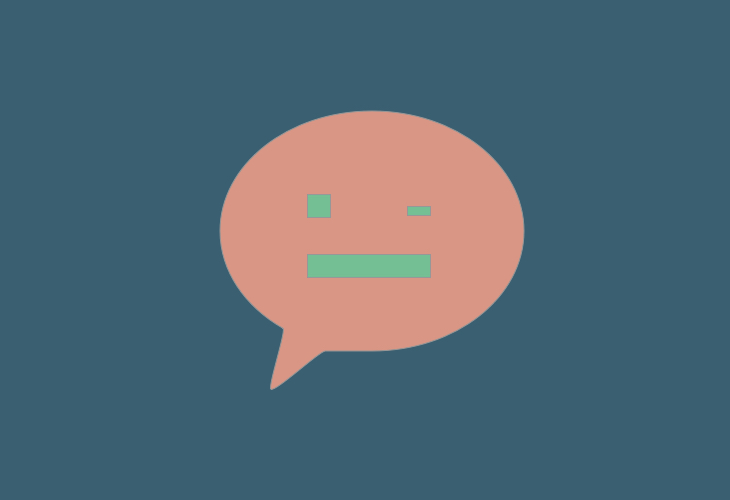
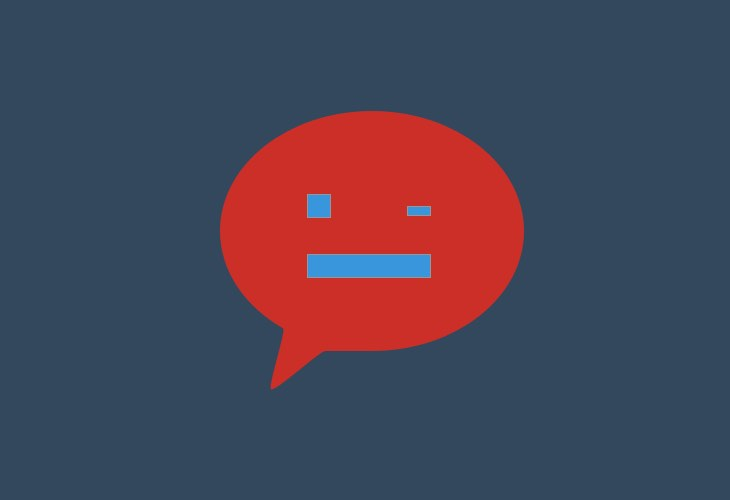
switch color palette

Changed region(s): [[0.2712, 0.18, 0.7233, 0.81]]

diff --git a/components/ShowRoomPage/images/jsxIfyedGlassesSVG.js b/components/ShowRoomPage/images/jsxIfyedGlassesSVG.js
@@ -8,13 +8,13 @@ const glassesSvg = () => <svg height="189px" width="259px" version="1.1" viewBox
   <defs/>
   <g id="showRoomGlassesSVG" fill="none" stroke="none" strokeWidth="1">
     <g id="glasses" transform="translate(5.000000, 6.000000)">
-      <path id="Path-1" d="M79.2539062,20.078125 C79.2539062,20.078125 70.4441533,4.82838836 67.8398438,0.3203125 L67.8398438,0.3203125 L51.0742188,7.8359375 L42.3046875,22.6992187 L0.57421875,112.113281" stroke="#3D7F59" strokeDasharray="1" strokeLinecap="round" strokeWidth="11"/>
-      <circle id="Oval-1" cx="54.5" cy="128.5" r="48.5" stroke="#3D7F59" strokeWidth="11"/>
-      <path id="Rectangle-1" d="M32.716366,106.526212 C43.4021314,106.526212 54.0878967,117.354337 54.0878967,117.354337 L11.3448353,117.354337 C11.3448353,117.354337 22.0306007,106.526212 32.716366,106.526212 Z" fill="#44535A" transform="translate(32.716366, 111.940275) rotate(-45.000000) translate(-32.716366, -111.940275) "/>
-      <path id="Path-1" d="M248.253906,20.078125 C248.253906,20.078125 239.444153,4.82838836 236.839844,0.3203125 L236.839844,0.3203125 L220.074219,7.8359375 L211.304688,22.6992187 L169.574219,112.113281" stroke="#3D7F59" strokeDasharray="1" strokeLinecap="round" strokeWidth="11" transform="translate(208.914062, 56.216797) scale(-1, 1) translate(-208.914062, -56.216797) "/>
-      <circle id="Oval-1" cx="194.5" cy="128.5" r="48.5" stroke="#3D7F59" strokeWidth="11"/>
-      <path id="Rectangle-1" d="M213.716366,106.526212 C224.402131,106.526212 235.087897,117.354337 235.087897,117.354337 L192.344835,117.354337 C192.344835,117.354337 203.030601,106.526212 213.716366,106.526212 Z" fill="#44535A" transform="translate(213.716366, 111.940275) scale(-1, 1) rotate(-45.000000) translate(-213.716366, -111.940275) "/>
-      <path id="Line" d="M101,143 C101,143 109.311148,123 125.8593,123 C142.407452,123 148,143 148,143" stroke="#3D7F59" strokeLinecap="round" strokeWidth="12"/>
+      <path id="Path-1" d="M79.2539062,20.078125 C79.2539062,20.078125 70.4441533,4.82838836 67.8398438,0.3203125 L67.8398438,0.3203125 L51.0742188,7.8359375 L42.3046875,22.6992187 L0.57421875,112.113281" stroke="#3996DD" strokeDasharray="1" strokeLinecap="round" strokeWidth="11"/>
+      <circle id="Oval-1" cx="54.5" cy="128.5" r="48.5" stroke="#3996DD" strokeWidth="11"/>
+      <path id="Rectangle-1" d="M32.716366,106.526212 C43.4021314,106.526212 54.0878967,117.354337 54.0878967,117.354337 L11.3448353,117.354337 C11.3448353,117.354337 22.0306007,106.526212 32.716366,106.526212 Z" fill="#33485C" transform="translate(32.716366, 111.940275) rotate(-45.000000) translate(-32.716366, -111.940275) "/>
+      <path id="Path-1" d="M248.253906,20.078125 C248.253906,20.078125 239.444153,4.82838836 236.839844,0.3203125 L236.839844,0.3203125 L220.074219,7.8359375 L211.304688,22.6992187 L169.574219,112.113281" stroke="#3996DD" strokeDasharray="1" strokeLinecap="round" strokeWidth="11" transform="translate(208.914062, 56.216797) scale(-1, 1) translate(-208.914062, -56.216797) "/>
+      <circle id="Oval-1" cx="194.5" cy="128.5" r="48.5" stroke="#3996DD" strokeWidth="11"/>
+      <path id="Rectangle-1" d="M213.716366,106.526212 C224.402131,106.526212 235.087897,117.354337 235.087897,117.354337 L192.344835,117.354337 C192.344835,117.354337 203.030601,106.526212 213.716366,106.526212 Z" fill="#33485C" transform="translate(213.716366, 111.940275) scale(-1, 1) rotate(-45.000000) translate(-213.716366, -111.940275) "/>
+      <path id="Line" d="M101,143 C101,143 109.311148,123 125.8593,123 C142.407452,123 148,143 148,143" stroke="#3996DD" strokeLinecap="round" strokeWidth="12"/>
     </g>
   </g>
 </svg>;

diff --git a/components/SiteNavi/style.css b/components/SiteNavi/style.css
@@ -1,6 +1,6 @@
 .sidebarNav {
     width: 120px;
-    background: #44535a;
+    background: #33485C;
     height: 100%;
     position: absolute;
     left: -120px;
@@ -8,7 +8,7 @@
     overflow-y: scroll;
     transition: left .3s;
     min-height: 650px;
-    animation: bounce-in-sidebarNav 2.5s;
+    /*animation: bounce-in-sidebarNav 2.5s;*/
     &::-webkit-scrollbar {
          display: none !important
     }
@@ -20,6 +20,7 @@
     }
 }
 
+/* currently not used, originaly made for class .sidebarNav */
 @keyframes bounce-in-sidebarNav {
     0% {
         top: -2000%;
@@ -61,13 +62,28 @@
     /* ád animation-fill-mode: backwards
      * > The animation will apply the property values defined in the keyframe that will start the first iteration of the animation, during the period defined by animation-delay.
     */
-    animation: nav-image-squeeze 1.6s ease-out .7s;
+    animation: nav-image-squeeze 1.6s ease-in-out .7s;
     animation-fill-mode: backwards;
 }
 
 @keyframes nav-image-squeeze {
     0% {
-        height: 40px;
+        height: 0px;
+        opacity: 0.1;
+        transform: scaleX(0.1);
+    }
+    70% {
+        transform: scaleX(1.5);
+    }
+    75%, 79%, 84% {
+        transform: rotate(-4deg)
+    }
+    77%, 82% {
+        transform: rotate(10deg)
+    }
+    85% {
+        opacity: 0.5;
+        transform: scaleX(1);
     }
     100% {
         height: 120px;
@@ -81,7 +97,7 @@
 }
 
 .avatarName {
-    background-color: #3d7f59;
+    background-color: #3996DD;
     color: #fff;
     font-size: 14px;
     padding: 10px 5px;
@@ -106,7 +122,7 @@
 }
 
 .menuItemActive {
-    background-color: rgba(61,127,89,0.27);
+    background-color: rgba(203,47,40,0.27);
     animation: flash .5s ease-out;
 }
 

diff --git a/components/TimelinePage/LifeEvent/style.module.css b/components/TimelinePage/LifeEvent/style.module.css
@@ -15,7 +15,7 @@ article.lifeEvent {
               border-radius: 50%;
               color: #fff;
               border: 5px solid #fff;
-              background-color: #7F3D63;
+              background-color: #CB2F28;
               content: '';
               height: 60px;
               left: 0;
@@ -26,12 +26,12 @@ article.lifeEvent {
               display: flex;
               align-items: center;
               justify-content: center;
-              animation: jumpInLikeTennisBall 2s;
+              animation: jumpInLikeTennisBall-Y-axis 2s;
               animation-fill-mode: backwards;
-              animation-delay: 1.5s;
+              animation-delay: 0.5s;
         }
         > span.date {
-              background-color: #7F3D63;
+              background-color: #CB2F28;
               color: #fff;
               font-size: 14px;
               font-weight: 400;
@@ -58,10 +58,11 @@ article.lifeEvent {
     }
 }
 
-@keyframes jumpInLikeTennisBall {
+@keyframes jumpInLikeTennisBall-Y-axis {
     0% {
-        transform: translateY(-250px) translateX(-100px);
+        transform: translateY(-250px);
         animation-timing-function: ease-in;
+        opacity: 0;
     }
     40% {
         transform: translateY(-35px);

diff --git a/components/TimelinePage/LifePeriod/style.module.css b/components/TimelinePage/LifePeriod/style.module.css
@@ -14,7 +14,7 @@ article.lifePeriod {
             margin-right: 2.04082%;
             min-height: 30%;
             &:before {
-                 background-color: #7F3D63;
+                 background-color: #CB2F28;
                  border-radius: 50%;
                  border: 5px solid #fff;
                  content: '';
@@ -31,7 +31,7 @@ article.lifePeriod {
                 margin-right: 0;
             }
             span.date {
-                background-color: #7F3D63;
+                background-color: #CB2F28;
                 color: #fff;
                 font-size: 14px;
                 font-weight: 400;
@@ -40,7 +40,7 @@ article.lifePeriod {
                 padding: 5px 10px;
             }
             h2 {
-                color: #7F3D63;
+                color: #CB2F28;
                 display: inline;
                 font-size: 18px;
                 line-height: 28px;
@@ -70,7 +70,7 @@ article.lifePeriod {
           justify-content: flex-start;
         }
         span {
-            background-color: #7F3D63;
+            background-color: #CB2F28;
             color: #fff;
             display: inline-block;
             padding: 0 5px;

diff --git a/components/AboutPage/style.module.css b/components/AboutPage/style.module.css
@@ -32,7 +32,7 @@
     background-image: url("./images/about-me-main-image.png");
     width: 49.15254%;
     float: left;
-    background-color: #7F3D63;
+    background-color: #CB2F28;
     background-size: contain;
     background-position: 50%;
     background-repeat: no-repeat;
@@ -117,15 +117,15 @@
     letter-spacing: 1px;
     text-align: center;
     a {
-      color: #7F3D63;
+      color: #CB2F28;
       &:focus, &:hover {
-        color: #3d7f59 !important;
+        color: #3996DD !important;
        }
     }
 }
 
 .quoteSymbol {
-    color: #3d7f59;
+    color: #3996DD;
     /*font-size: 100px;*/
     font-style: italic;
     margin-top: 20px;
@@ -170,7 +170,7 @@
     0% {
         transform: rotate(2deg) translateY(-3px) scale(1.1);
         font-weight: 500;
-        color: #3D7F59;
+        color: #3996DD;
     }
     5% {
         transform: rotate(-1deg);

diff --git a/wrappers/md.jsx b/wrappers/md.jsx
@@ -6,6 +6,7 @@ import SitePost from '../components/SitePost'
 import SitePage from '../components/SitePage'
 import ContactPage from '../components/ContactPage'
 import TimelinePage from '../components/TimelinePage'
+import Lounge from '../components/Lounge'
 import { config } from 'config'
 
 class MarkdownWrapper extends React.Component {
@@ -30,6 +31,8 @@ class MarkdownWrapper extends React.Component {
           template = <ContactPage {...this.props}/>
         } else if (layout == 'timeline') {
           template = <TimelinePage {...this.props}/>
+        } else if (layout == 'lounge') {
+          template = <Lounge {...this.props}/>
         } else if (layout != 'page') {
           template = <SitePost {...this.props}/>
         } else if (layout != 'post') {

diff --git a/components/ContactPage/style.module.css b/components/ContactPage/style.module.css
@@ -12,7 +12,7 @@ a.messageMe {
     display: inline-block;
     padding: 15px 25px;
     letter-spacing: 2px;
-    background: rgba(67, 95, 90, .5);
+    background: rgba(51, 72, 92, .5);
     box-shadow: 0 3px 6px rgba(0,0,0,0.16), 0 3px 6px rgba(0,0,0,0.23);
     transition:
         background-color 0.4s ease-out,
@@ -23,7 +23,7 @@ a.messageMe {
 
     &:hover {
         color: #fff;
-        background-color: #7F3D63;
+        background-color: #CB2F28;
         box-shadow: 0 10px 20px rgba(0,0,0,0.19), 0 6px 6px rgba(0,0,0,0.23);
         transform: scale(1.05);
         border-bottom: 4px solid #fff;
@@ -40,7 +40,7 @@ a.messageMe {
     margin: 10px 20px;
 
     &:hover {
-        color: #7F3D63;
+        color: #CB2F28;
      }
 }
 

diff --git a/components/ShowRoomPage/index.js b/components/ShowRoomPage/index.js
@@ -49,18 +49,14 @@ class ShowRoomPage extends React.Component {
     )
   }
 
-  componentDidMount() {
-    //new Vivus('glasses-svg', {duration: 200, file: <GlassesSvg/>});
-  }
-
   render() {
     const {route} = this.props
     const post = route.page.data
     return (
       <PageWrapper>
-        <PageHeadline color="#44535A">Showroom</PageHeadline>
+        <PageHeadline color="#33485C">Showroom</PageHeadline>
         <SectionWrapper customStyle={styles.glassesWrapper}>
-          <MtSvgLines animate={1400} duration={3000} fade={true}>
+          <MtSvgLines animate={1400} duration={2500} fade={true} timine="ease-in">
             <GlassesSvg/>
           </MtSvgLines>
         </SectionWrapper>

diff --git a/components/ShowRoomPage/style.module.css b/components/ShowRoomPage/style.module.css
@@ -28,7 +28,7 @@
                 border-style: none;
             }
             div.refItemOverlay {
-                background-color: #44535a;
+                background-color: #33485C;
                 bottom: 6px;
                 content: '';
                 display: flex;
@@ -58,7 +58,7 @@
         padding: 20px 10px;
         text-align: center;
         strong {
-            color: #44535a;
+            color: #33485C;
             display: block;
             text-transform: uppercase;
             font-weight: bolder;

diff --git a/components/AboutPage/index.js b/components/AboutPage/index.js
@@ -77,7 +77,7 @@ class AboutPage extends React.Component {
     const post = route.page.data
     return (
       <PageWrapper>
-        <PageHeadline color="#3D7F59">About me</PageHeadline>
+        <PageHeadline color="#3996DD">About me</PageHeadline>
         <SectionWrapper customStyle={styles.about}>
           <p className={styles.aboutMeIntroductionText}>{post.aboutMeIntroductionText}</p>
           <div className={`${styles.aboutMeMainImage} ${styles.containerAnimated}`}></div>

diff --git a/components/Button/style.module.css b/components/Button/style.module.css
@@ -3,7 +3,7 @@
     margin-left: auto;
     margin-right: auto;
     padding: 15px 25px;
-    background-color: #3D7F59;
+    background-color: #3996DD;
     color: white;
     text-decoration: none;
     font-weight: 300;
@@ -14,7 +14,7 @@
 
 .btn:hover {
     color: white;
-    background-color: #7F3D63;
+    background-color: #CB2F28;
     transform: scale(1.05);
     box-shadow: 0 10px 20px rgba(0,0,0,0.19), 0 6px 6px rgba(0,0,0,0.23);
 }

diff --git a/components/Lounge/index.js b/components/Lounge/index.js
@@ -1,0 +1,17 @@
+import React from 'react';
+
+class Lounge extends React.Component {
+
+  render() {
+    return(
+      <p>
+        I am gonna write down stuff here.<br />
+        As good as possible.<br />
+        Stuff you might be interested in.<br />
+        But anyways, stuff I have to begin with writing (soon).<br />
+      </p>
+    )
+  }
+}
+
+export default Lounge;
